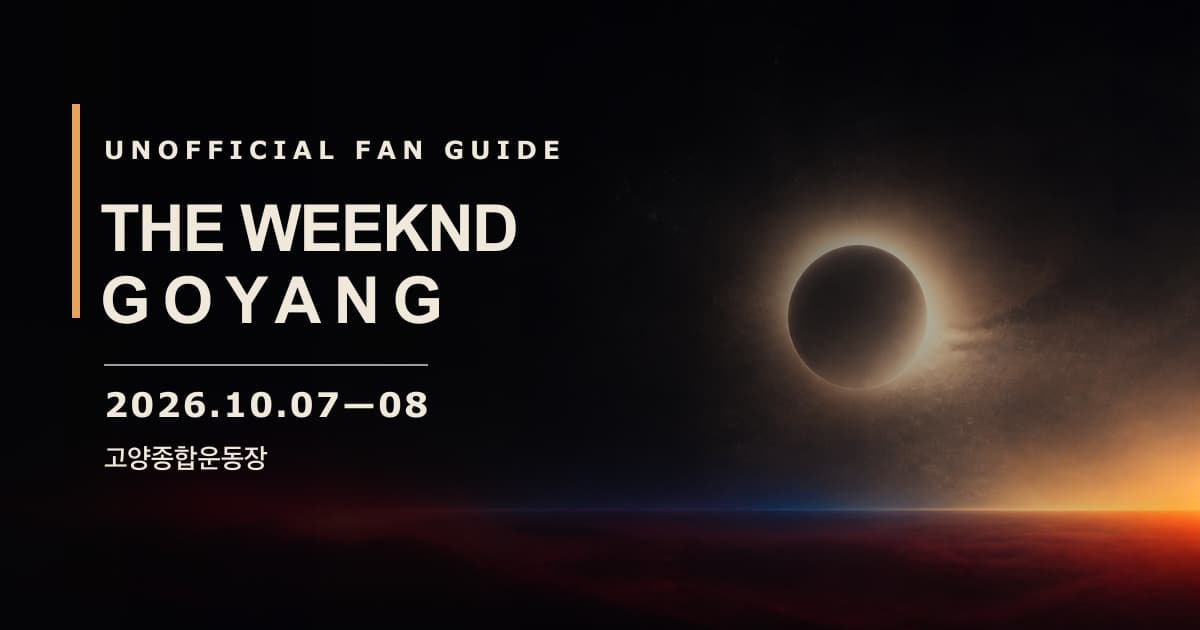
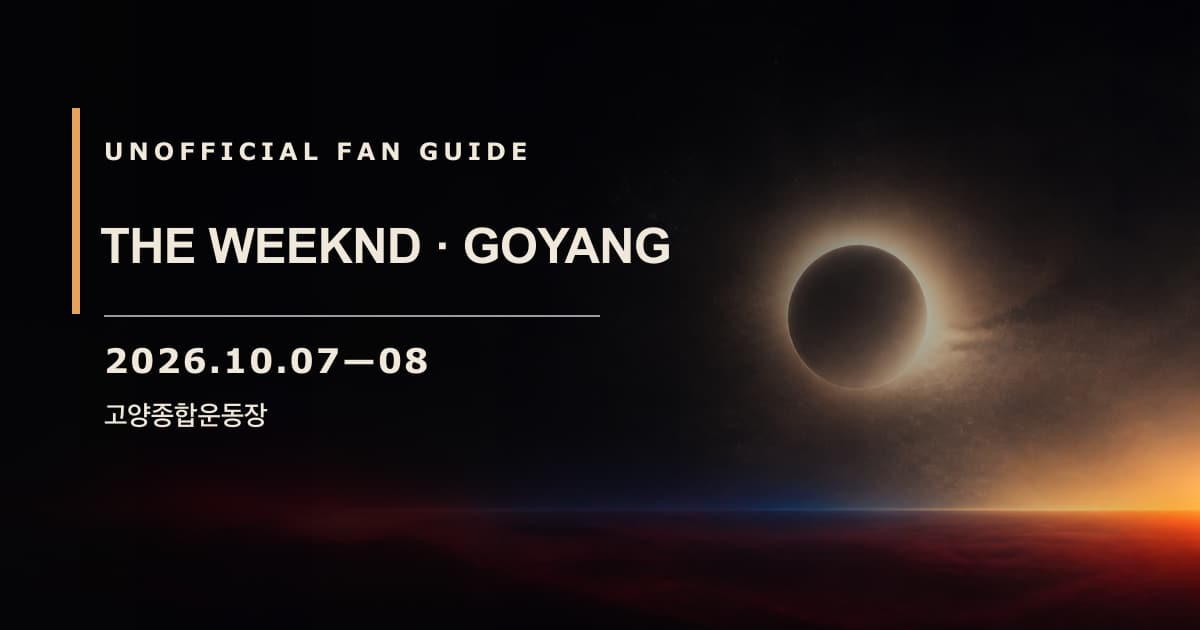
fix(seo): reject invalid public origins

Changed region(s): [[0.0617, 0.3016, 0.555, 0.5127], [0.0925, 0.5429, 0.37, 0.754], [0.0925, 0.2111, 0.4625, 0.2714]]

diff --git a/tests/unit/public-site-url.test.ts b/tests/unit/public-site-url.test.ts
@@ -1,0 +1,23 @@
+import { describe, expect, it } from 'vitest';
+import { resolvePublicSiteUrl } from '../../astro.config.mjs';
+
+describe('PUBLIC_SITE_URL configuration', () => {
+  it('keeps builds local-safe when the value is absent', () => {
+    expect(resolvePublicSiteUrl(undefined)).toBeUndefined();
+  });
+
+  it('accepts a valid HTTP(S) origin', () => {
+    expect(resolvePublicSiteUrl('https://fan-guide.test/path/')).toBe(
+      'https://fan-guide.test/path/',
+    );
+  });
+
+  it.each(['not-a-url', 'ftp://fan-guide.test'])(
+    'rejects invalid value %s',
+    (value) => {
+      expect(() => resolvePublicSiteUrl(value)).toThrow(
+        'PUBLIC_SITE_URL must be an absolute HTTP(S) URL',
+      );
+    },
+  );
+});

diff --git a/src/assets/visual/README.md b/src/assets/visual/README.md
@@ -17,7 +17,7 @@ The built-in generator returned RGB PNGs with a baked checkerboard after explici
 
 ## Task 12 share preview
 
-`public/og/default.jpg` uses a fresh original ImageGen background, then deterministic Node/Sharp SVG typography composition (not generative in-image text): `THE WEEKND · GOYANG`, `2026.10.07—08`, `UNOFFICIAL FAN GUIDE`, and `고양종합운동장`. The source is `/Users/yong/.codex/generated_images/01a04a6d-7425-7000-af43-5aa2d6c693db/exec-314d8f78-02af-4901-85f0-22e279f35588.png`; it was generated with the built-in tool on 2026-08-29 and visually inspected at native 1731×909 resolution before use.
[1 lines of base64/hex data omitted]
 
 Final background prompt: “Original DAWNFOLD abstract cinematic night-to-dawn scene: deep Night Black field, a large soft eclipse-like moon glow slightly right of center, restrained deep-red horizon haze in the lower third, a narrow cobalt-blue light seam, and a subtle dawn-amber edge along the horizon. Leave the left third and upper-left quadrant visibly uncluttered for later typography. Background only; no typography, people, artist likeness, logos, XO mark, official tour lockup, album artwork, sponsor marks, checkerboard, watermark, frame, border, or recognizable promotional artwork.”
 
